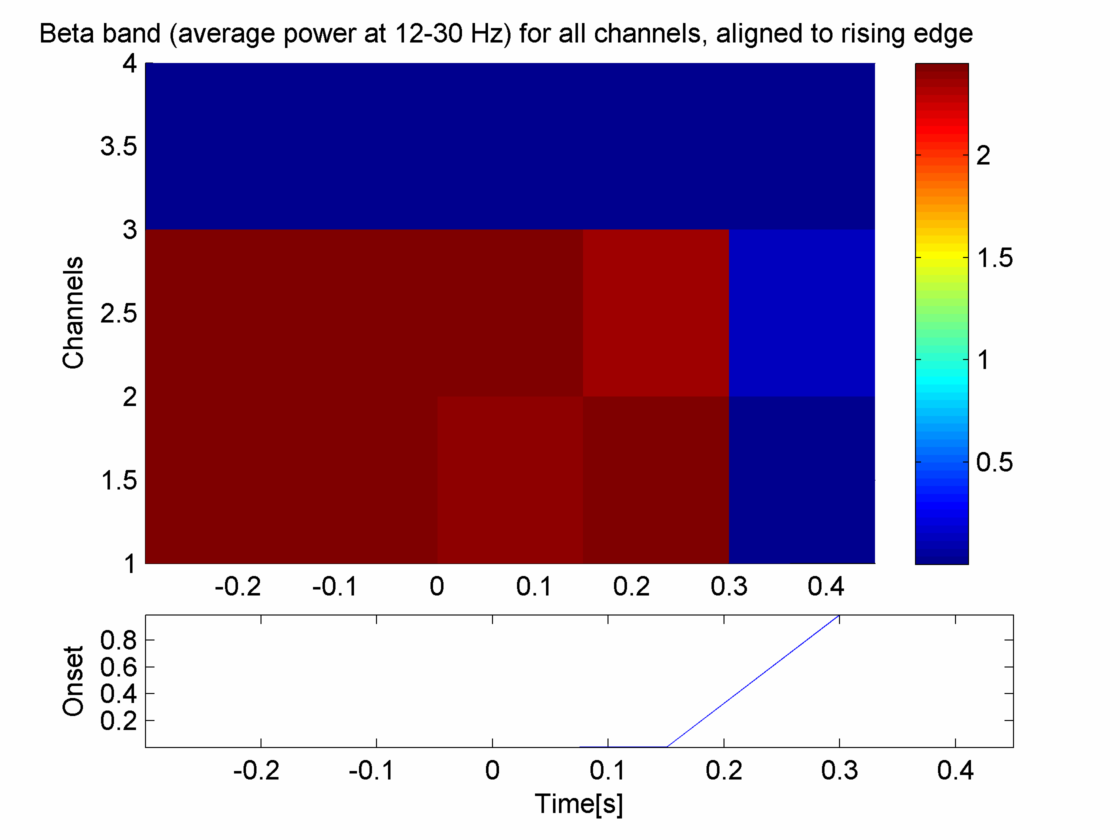
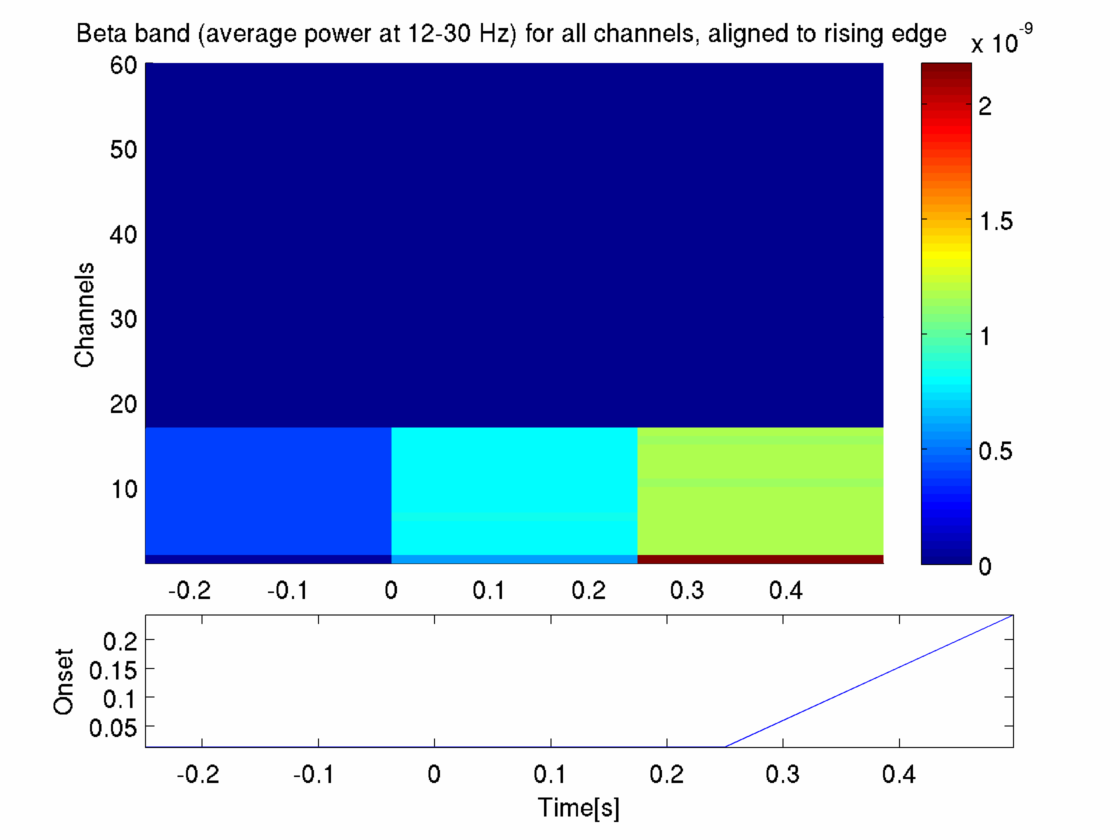
new code plots

diff --git a/penn2/analysis/Leon/analysis_plots.m b/penn2/analysis/Leon/analysis_plots.m
@@ -1,0 +1,154 @@
+%This generate significant plots for the data recorded.
+%This script needs for analyse_datya.m to be run before so it can pull the
+%environment variables and generate the plots
+fig1 = figure('visible','off');
+%figure
+subplot(2,1,1)
+spectogram_single_channel(1, large_power_matrix, T_axis, F)%Plot the spectrogram of the first channel
+title('Raw Data and Spectrogram associated with the working data file')
+xlimit = get(gca, 'XLim');
+xlim([0, xlimit(2)])
+figureHandle = gcf;
+set(findall(figureHandle,'type','text'),'fontSize',14,'fontWeight','bold')
+subplot(2,1,2)
+plot(raw_time_axis, raw_data)%Plot the raw data
+xlim([0, xlimit(2)])
+set(gca,'Color',[1 1 1]);
+grid on
+xlabel('Time(s)')
+ylabel('Volts')
+figureHandle = gcf;
+set(findall(figureHandle,'type','text'),'fontSize',14,'fontWeight','bold')
+set(gca,'FontSize',14)
+set(gcf, 'color', [1,1,1])
+set(gcf,'renderer', 'zbuffer');
+myaa([4 2],'raw_data_spectrogram.png');
+
+%%%%%%%%%%%%%%%%%%%%%%%%%%%%%%%%%%%%%%%%%%%%%%%%%%%%%%%%%%%%%%%%%%%%%%%%%%%%%%%%%%%%%%%%%%%%%%%%
+%%Plot the aligned rising edges
+%%%%%%%%%%%%%%%%%%%%%%%%%%%%%%%%%%%%%%%%%%%%%%%%%%%%%%%%%%%%%%%%%%%%%%%%%%%%%%%%%%%%%%%%%%%%%%%%
+
+fig3 = figure('visible','off');
+%figure
+frequency_matrix = zeros(num_chan, length(T_axis)); %matrix that has channels in the rows and time in the X, to plot averaged frequencies
+desired_frequencies = [12:30]; %Frequencies in the Beta Band
+for chan_idx = 1:num_chan
+    chan_power_mat = large_power_matrix(:,(chan_idx-1)*length(F)+1:chan_idx*length(F)); %extract the info for the current channel
+    channel_frequency = extract_frequency(chan_power_mat, F, desired_frequencies, 'average'); %extract the frequencies that we want
+    frequency_matrix(chan_idx,:) = channel_frequency;%assigns those frequencies to the channel
+end
+%surf(T_axis,[1:num_chan],10*log10(frequency_matrix),'edgecolor','none'); axis tight; %plot them
+view(0,90)%change the vie
+%generate the aligned values
+[aligned_mat aligned_time] = align_data(large_labels', frequency_matrix', 'rise', fourier_sampling_rate);%align to every rise in the labels
+[aligned_force aligned_time] = align_data(large_labels', large_force, 'rise', fourier_sampling_rate);%align to every rise in the labels
+subplot(4,1,1:3)
+surf(aligned_time,[1:num_chan],(mean(aligned_mat,3)'),'edgecolor','none'); axis tight;
+colorbar
+title('Beta band (average power at 12-30 Hz) for all channels, aligned to rising edge ')
+ylabel('Channels')
+view(0,90)
+subplot(4,1,4)
+plot(aligned_time, mean(aligned_force,3))
+xlabel('Time[s]')
+ylabel('Onset')
+axis tight
+set(gcf, 'color', [1,1,1])
+set(gcf,'renderer', 'zbuffer');
+myaa([4 2],'beta_rising.png')
+
+
+%figure
+fig4 = figure('visible','off');
+frequency_matrix = zeros(num_chan, length(T_axis)); %matrix that has channels in the rows and time in the X, to plot averaged frequencies
+desired_frequencies = [65:115]; %Frequencies in the Gamma Band
+for chan_idx = 1:num_chan
+    chan_power_mat = large_power_matrix(:,(chan_idx-1)*length(F)+1:chan_idx*length(F)); %extract the info for the current channel
+    channel_frequency = extract_frequency(chan_power_mat, F, desired_frequencies, 'average'); %extract the frequencies that we want
+    frequency_matrix(chan_idx,:) = channel_frequency;%assigns those frequencies to the channel
+end
+%surf(T_axis,[1:num_chan],10*log10(frequency_matrix),'edgecolor','none'); axis tight; %plot them
+view(0,90)%change the view
+
+%generate the aligned values
+[aligned_mat aligned_time] = align_data(large_labels', frequency_matrix', 'rise', fourier_sampling_rate);%align to every rise in the labels
+[aligned_force aligned_time] = align_data(large_labels', large_force, 'rise', fourier_sampling_rate);%align to every rise in the labels for the force
+subplot(4,1,1:3)
+surf(aligned_time,[1:num_chan],(mean(aligned_mat,3)'),'edgecolor','none'); axis tight;
+title('Gamma band (average power at 65-115 Hz) for all channels, aligned to rising edge ')
+ylabel('Channels')
+view(0,90)
+subplot(4,1,4)
+plot(aligned_time, mean(aligned_force,3))
+xlabel('Time[s]')
+ylabel('Force [Force Units]')
+axis tight;
+set(gcf, 'color', [1,1,1])
+set(gcf,'renderer', 'zbuffer');
+myaa([4 2],'gamma_rising.png')
+
+
+
+%%%%%%%%%%%%%%%%%%%%%%%%%%%%%%%%%%%%%%%%%%%%%%%%%%%%%%%%%%%%%%%%%%%%%%%%%%%%%%%%%%%%%%%%%%%%%%%%
+%%Plot the aligned falling edges
+%%%%%%%%%%%%%%%%%%%%%%%%%%%%%%%%%%%%%%%%%%%%%%%%%%%%%%%%%%%%%%%%%%%%%%%%%%%%%%%%%%%%%%%%%%%%%%%%
+
+fig5 = figure('visible','off')
+%figure
+frequency_matrix = zeros(num_chan, length(T_axis)); %matrix that has channels in the rows and time in the X, to plot averaged frequencies
+desired_frequencies = [12:30]; %Frequencies in the Beta Band
+for chan_idx = 1:num_chan
+    chan_power_mat = large_power_matrix(:,(chan_idx-1)*length(F)+1:chan_idx*length(F)); %extract the info for the current channel
+    channel_frequency = extract_frequency(chan_power_mat, F, desired_frequencies, 'average'); %extract the frequencies that we want
+    frequency_matrix(chan_idx,:) = channel_frequency;%assigns those frequencies to the channel
+end
+%surf(T_axis,[1:num_chan],10*log10(frequency_matrix),'edgecolor','none'); axis tight; %plot them
+view(0,90)%change the view
+
+%generate the aligned values
+[aligned_mat aligned_time] = align_data(large_labels', frequency_matrix', 'fall', fourier_sampling_rate);%align to every rise in the labels
+[aligned_force aligned_time] = align_data(large_labels', large_force, 'fall', fourier_sampling_rate);%align to every rise in the labels
+subplot(4,1,1:3)
+surf(aligned_time,[1:num_chan],(mean(aligned_mat,3)'),'edgecolor','none'); axis tight;
+title('Beta band (average power at 12-30 Hz) for all channels, aligned to falling edge ')
+ylabel('Channels')
+view(0,90)
+subplot(4,1,4)
+plot(aligned_time, mean(aligned_force,3))
+xlabel('Time[s]')
+ylabel('Force [Force Units]')
+axis tight;
+set(gcf, 'color', [1,1,1])
+set(gcf,'renderer', 'zbuffer');
+myaa([4 2],'beta_falling.png')
+
+
+fig6 = figure('visible','off')
+%figure
+frequency_matrix = zeros(num_chan-8, length(T_axis)); %matrix that has channels in the rows and time in the X, to plot averaged frequencies
+desired_frequencies = [65:115]; %Frequencies in the Beta Band
+for chan_idx = 1:num_chan
+    chan_power_mat = large_power_matrix(:,(chan_idx-1)*length(F)+1:chan_idx*length(F)); %extract the info for the current channel
+    channel_frequency = extract_frequency(chan_power_mat, F, desired_frequencies, 'average'); %extract the frequencies that we want
+    frequency_matrix(chan_idx,:) = channel_frequency;%assigns those frequencies to the channel
+end
+%surf(T_axis,[1:num_chan],10*log10(frequency_matrix),'edgecolor','none'); axis tight; %plot them
+view(0,90)%change the view
+
+%generate the aligned values
+[aligned_mat aligned_time] = align_data(large_labels', frequency_matrix', 'fall', fourier_sampling_rate);%align to every rise in the labels
+[aligned_force aligned_time] = align_data(large_labels', large_force, 'fall', fourier_sampling_rate);%align to every rise in the labels for the force
+subplot(4,1,1:3)
+surf(aligned_time,[1:num_chan],(mean(aligned_mat,3)'),'edgecolor','none'); axis tight;
+title('Gamma band (average power at 65-115 Hz) for all channels, aligned to falling edge ')
+ylabel('Channels')
+view(0,90)
+subplot(4,1,4)
+plot(aligned_time, mean(aligned_force,3))
+xlabel('Time[s]')
+ylabel('Force [Force Units]')
+axis tight;
+set(gcf, 'color', [1,1,1])
+set(gcf,'renderer', 'zbuffer');
+myaa([4 2],'gamma_falling.png')
+    

diff --git a/penn2/analysis/Leon/plot_regression.m b/penn2/analysis/Leon/plot_regression.m
@@ -1,0 +1,76 @@
+%%This generates the regression plots witha given frequency band
+%The script analyse_data.m needs to be run at least once before this script
+%so it generates significant vaiables like the feature vector and the
+%labels.
+desired_reg_frequencies = [15:40];
+%desired_reg_frequencies = get_variables('beta'); %Get the desired frequencies to analyze in the regression
+%desired_reg_frequencies = get_variables('High Gamma'); %Get the desired frequencies to analyze in the regression
+
+frequency_matrix = zeros(num_chan, length(T_axis)); %matrix that has channels in the rows and time in the X, to plot averaged frequencies
+    for chan_idx = 1:num_chan
+        chan_power_mat = large_power_matrix(:,(chan_idx-1)*length(F)+1:chan_idx*length(F)); %extract the info for the current channel
+        channel_frequency = extract_frequency(chan_power_mat, F, desired_reg_frequencies, 'average'); %extract the frequencies that we want
+        frequency_matrix(chan_idx,:) = channel_frequency;%assigns those frequencies to the channel and generate a new features vector
+    end
+
+offset_time = 0.50; %offset in seconds
+%[large_labels, large_power_matrix] = offset_label(large_power_matrix, large_labels', offset_time, 'positive');%add an offset to the labels
+%large_labels = large_labels';
+
+[b,dev,stats] = glmfit(frequency_matrix' ,large_labels); % Logistic regression
+[XL,YL,XS,YS,BETA,PCTVAR, MSE, statspls] = plsregress(frequency_matrix', large_labels);
+[princ_comp_coeff, pcascore, latent] = princomp(frequency_matrix'); 
+pca_data = frequency_matrix'*princ_comp_coeff(:,1:8);
+[bpca,devpca,statspca] = glmfit(pca_data,large_labels); % Logistic regression
+
+
+fig1 = figure('visible','off');
+subplot(2,1,1);
+stem(b,'r')
+xlabel('Coefficient for the regression')
+ylabel('Magnitude of the coefficient')
+title('Regression Weights')
+%Plot whether a given power band/channel combination has a statistically significant regression coefficient.
+%Color scheme is black if coefficient is not significant.
+subplot(2,1,2);
+stem(stats.p, 'r')
+ylim([0,0.05])
+xlabel('Coefficients for the regression')
+ylabel('P-values')
+title('P-Values for the regression');
+set(gcf, 'color', [1,1,1])
+set(gcf,'renderer', 'zbuffer');
+myaa([4 2],'regression_weights_p_value.png')
+
+
+fig2 = figure('visible','off');
+subplot(2,1,1)
+stem(BETA,'r')
+xlabel('Coefficient for the PLS regression')
+ylabel('Magnitude of the coefficient')
+title('Regression Weights using PLS')
+subplot(2,1,2)
+plot(1:num_chan,cumsum(100*PCTVAR(2,:)),'-bo');
+xlabel('Number of PLS components');
+ylabel('Percent Variance Explained in y');
+set(gcf,'renderer', 'zbuffer');
+myaa([4 2],'pls_regression_weights_pctvar.png')
+
+fig3 = figure('visible','off');
+%figure
+subplot(2,1,1);
+stem(bpca,'r')
+xlabel('Coefficient for the regression using PCA')
+ylabel('Magnitude of the coefficient')
+title('Regression Weights using PCA')
+%Plot whether a given power band/channel combination has a statistically significant regression coefficient.
+%Color scheme is black if coefficient is not significant.
+subplot(2,1,2);
+stem(statspca.p, 'r')
+ylim([0,0.05])
+xlabel('Coefficients for the regression')
+ylabel('P-values')
+title('P-Values for the regression');
+set(gcf, 'color', [1,1,1])
+set(gcf,'renderer', 'zbuffer');
+myaa([4 2],'PCA regression_weights_p_value.png')

diff --git a/penn2/analysis/Leon/analyse_data.m b/penn2/analysis/Leon/analyse_data.m
@@ -25,10 +25,10 @@ first_batch = 1;
 
 %%%%%%%%%%%%%%%%%%%%%%%%%%%%%%%%%%%%%%%%%%%%%%%%%%%%%%%%%%%%%%%%%%%%%%%%%%%%
 %Read the data files
-root_path = ['/home/leon/Data/Penn/Oct_11'];
+root_path = ['/home/leon/Data/Penn/Nov_12'];
 time_stamps_file = [root_path '/data_click_Tue_01.10.2013_10:12:28'];
 data_file = [root_path '/data'];
-data_file = 'dummy.bin';
+%data_file = 'dummy.bin';
 %%%%%%%%%%%%%%%%%%%%%%%%%%%%%%%%%%%%%%%%%%%%%%%%%%%%%%%%%%%%%%%%%%%%%%%%%%%%%%%%%%%%%
 
 %%%%%%%%%%%%%%%%%%%%%%%%%%%%%%%%%%%%%%%%%%%%%%%%%%%%%%%%%%%%%%%%%%
@@ -131,7 +131,7 @@ for batch_idx = first_batch:max_num_batches
     time_axis = (1:size(force,1))/samplingRate;%generate the time series of the force
     [TF, match_idx] = findNearest(T,time_axis); %is member looks up which indexes match the output from the 
     force = force(match_idx,1);%recapture the force using the matched indexes
-    force_threshold = 0.2;
+    force_threshold =  0.0170559; %This is hardocded from the baseline of the data
     labels = labelize(force, force_threshold);
     %the next part of code is to generate placeholders to prevent overflows
     %in windows computers
@@ -218,6 +218,7 @@ if plot_flag ==1
     set(findall(figureHandle,'type','text'),'fontSize',14,'fontWeight','bold')
     set(gca,'FontSize',14)
     set(gcf, 'color', [1,1,1])
+    set(gcf,'renderer', 'zbuffer');
     myaa([4 2],'raw_data_spectrogram.png');
  
     
@@ -234,11 +235,12 @@ if plot_flag ==1
     %Color scheme is black if coefficient is not significant.
     subplot(2,1,2);
     stem(stats.p, 'r')
-    %ylim([0,0.05])
+    ylim([0,0.05])
     xlabel('Coefficients for the regression')
     ylabel('P-values')
     title('P-Values for the regression');
     set(gcf, 'color', [1,1,1])
+    set(gcf,'renderer', 'zbuffer');
     myaa([4 2],'regression_weights_p_value.png')
     
     %%%%%%%%%%%%%%%%%%%%%%%%%%%%%%%%%%%%%%%%%%%%%%%%%%%%%%%%%%%%%%%%%%%%%%%%%%%%%%%%%%%%%%%%%%%%%%%%
@@ -270,6 +272,7 @@ if plot_flag ==1
     ylabel('Onset')
     axis tight
     set(gcf, 'color', [1,1,1])
+    set(gcf,'renderer', 'zbuffer');
     myaa([4 2],'beta_rising.png')
     
 
@@ -298,6 +301,7 @@ if plot_flag ==1
     ylabel('Force [Force Units]')
     axis tight;
     set(gcf, 'color', [1,1,1])
+    set(gcf,'renderer', 'zbuffer');
     myaa([4 2],'gamma_rising.png')
     
 
@@ -331,6 +335,7 @@ if plot_flag ==1
     ylabel('Force [Force Units]')
     axis tight;
     set(gcf, 'color', [1,1,1])
+    set(gcf,'renderer', 'zbuffer');
     myaa([4 2],'beta_falling.png')
     
 
@@ -359,6 +364,7 @@ if plot_flag ==1
     ylabel('Force [Force Units]')
     axis tight;
     set(gcf, 'color', [1,1,1])
+    set(gcf,'renderer', 'zbuffer');
     myaa([4 2],'gamma_falling.png')
     
 end

diff --git a/penn2/analysis/Leon/get_variables.m b/penn2/analysis/Leon/get_variables.m
@@ -15,16 +15,16 @@ switch variable_name
         %desired number of channels to work with
         variable = 60;
     case 'Original_Sampling_Rate'
-        variable = 5000;
+        variable = 25000;
     case 'Desired_Sampling_Rate'
-        variable = 1024;
+        variable = 256;
     case 'Window_Size'
-        variable = 0.300;
+        variable = 0.500;
     case 'number_recorded_channels'
         %number of channels recorded
         variable = 60;
     case 'overlap_percentage'
-        variable = 0.300;
+        variable = 0.900;
     case 'Reference_Channel'
         variable = 2; %use channel 1 as reference, it can be changed to any channel 
     case 'right_limit'
